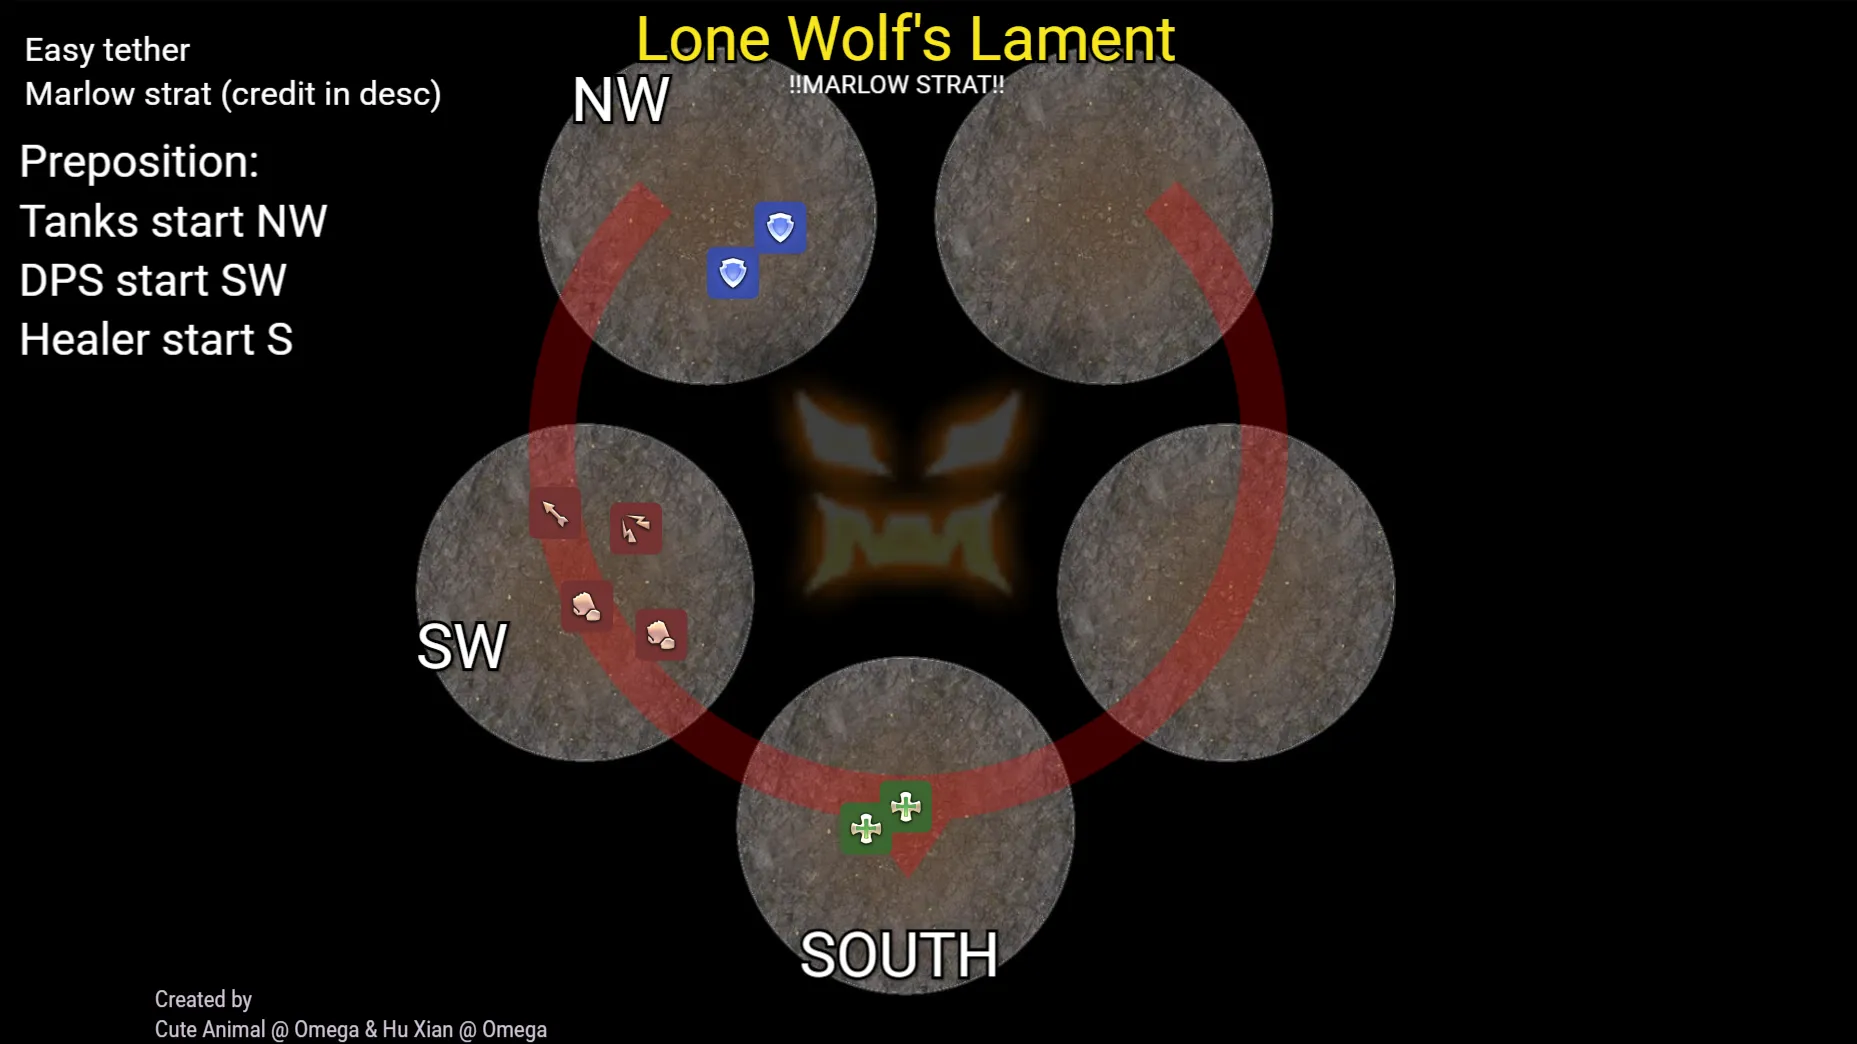
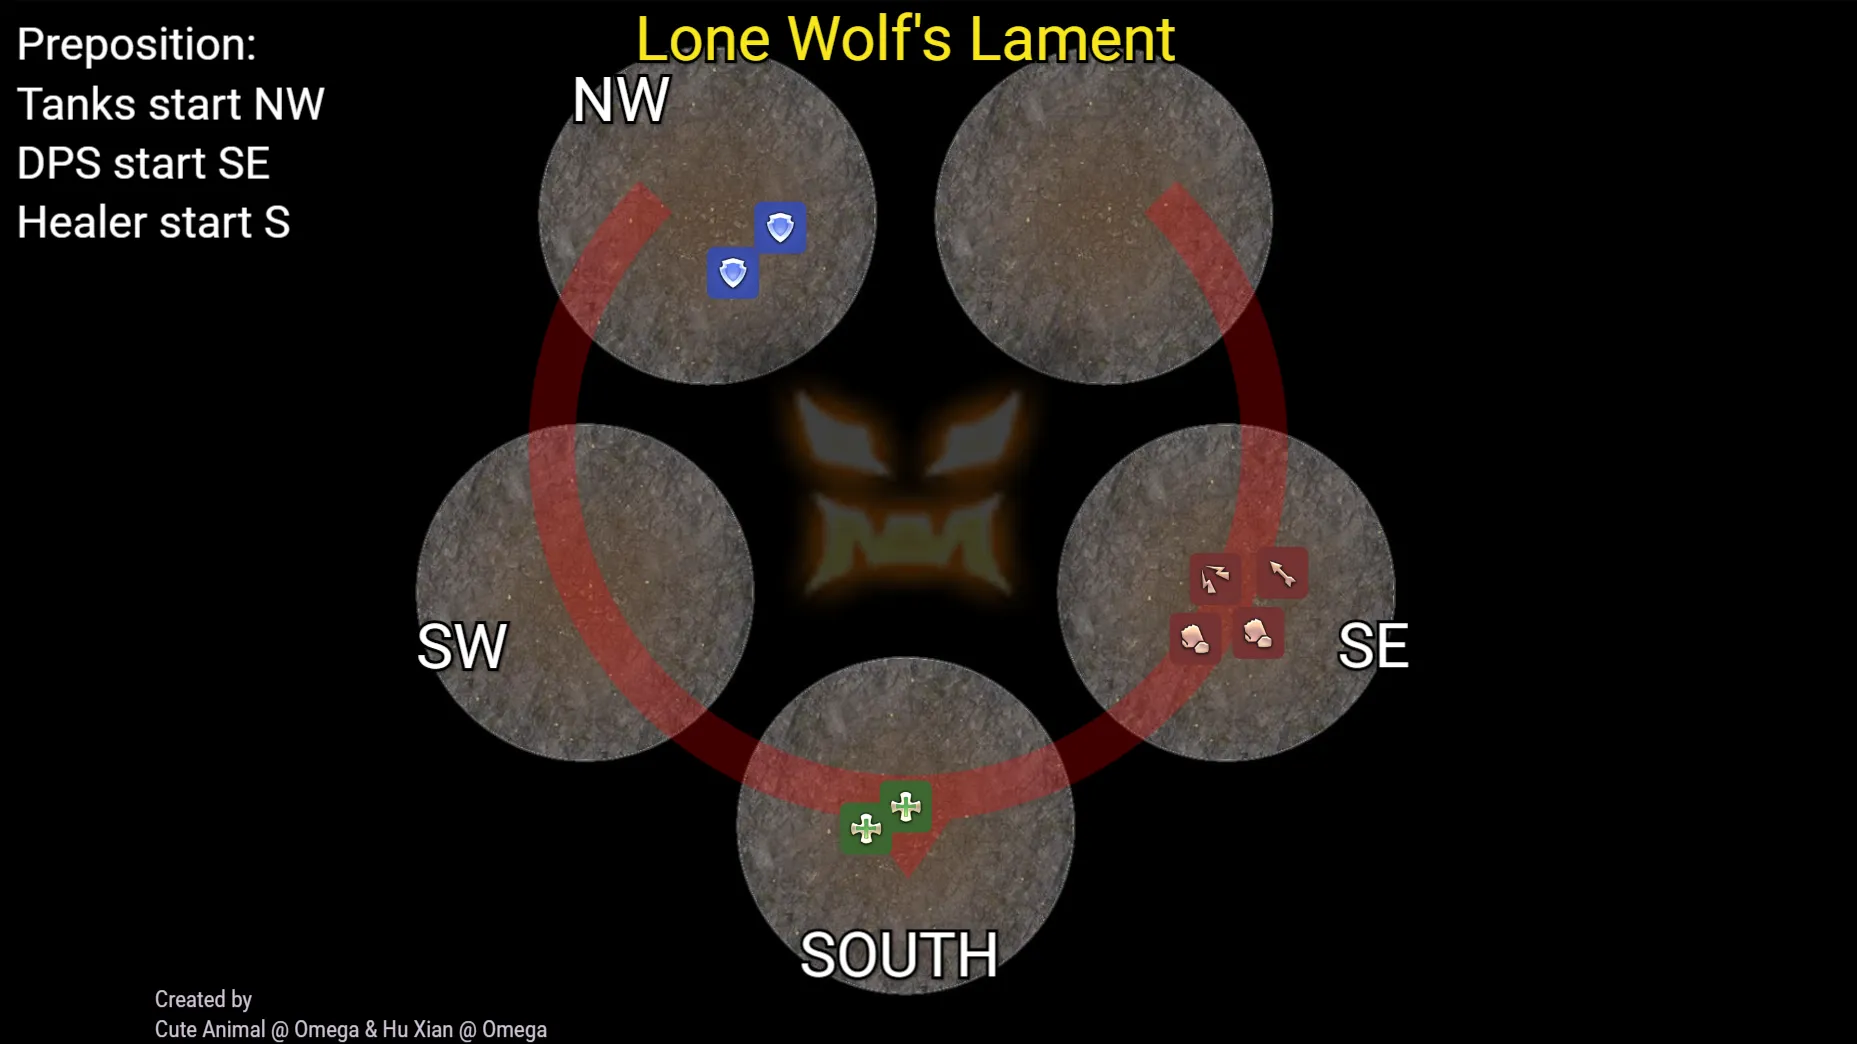
update toxic lament

diff --git a/wtfdig/src/routes/72/m8s/+page.ts b/wtfdig/src/routes/72/m8s/+page.ts
@@ -1427,25 +1427,25 @@ const toxicLament: StratRecord = {
         'M1': {
                 role: 'Melee',
                 party: 1,
-                description: 'Start Southwest',
+                description: 'Start Southeast',
                 imageUrl: './m8s/p2/toxic-lament-start.webp',
         },
         'M2': {
                 role: 'Melee',
                 party: 2,
-                description: 'Start Southwest',
+                description: 'Start Southeast',
                 imageUrl: './m8s/p2/toxic-lament-start.webp',
         },
         'R1': {
                 role: 'Ranged',
                 party: 1,
-                description: 'Start Southwest',
+                description: 'Start Southeast',
                 imageUrl: './m8s/p2/toxic-lament-start.webp',
         },
         'R2': {
                 role: 'Ranged',
                 party: 2,
-                description: 'Start Southwest',
+                description: 'Start Southeast',
                 imageUrl: './m8s/p2/toxic-lament-start.webp',
         },
     },
